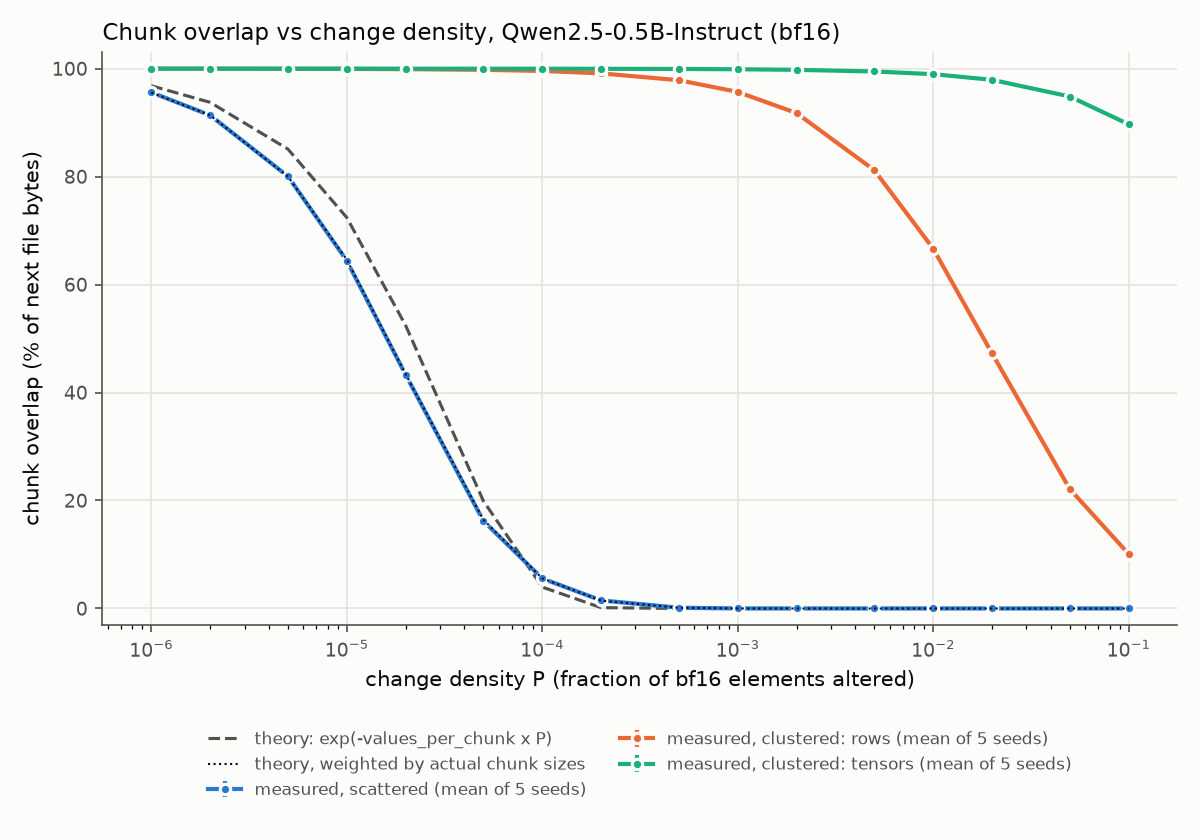
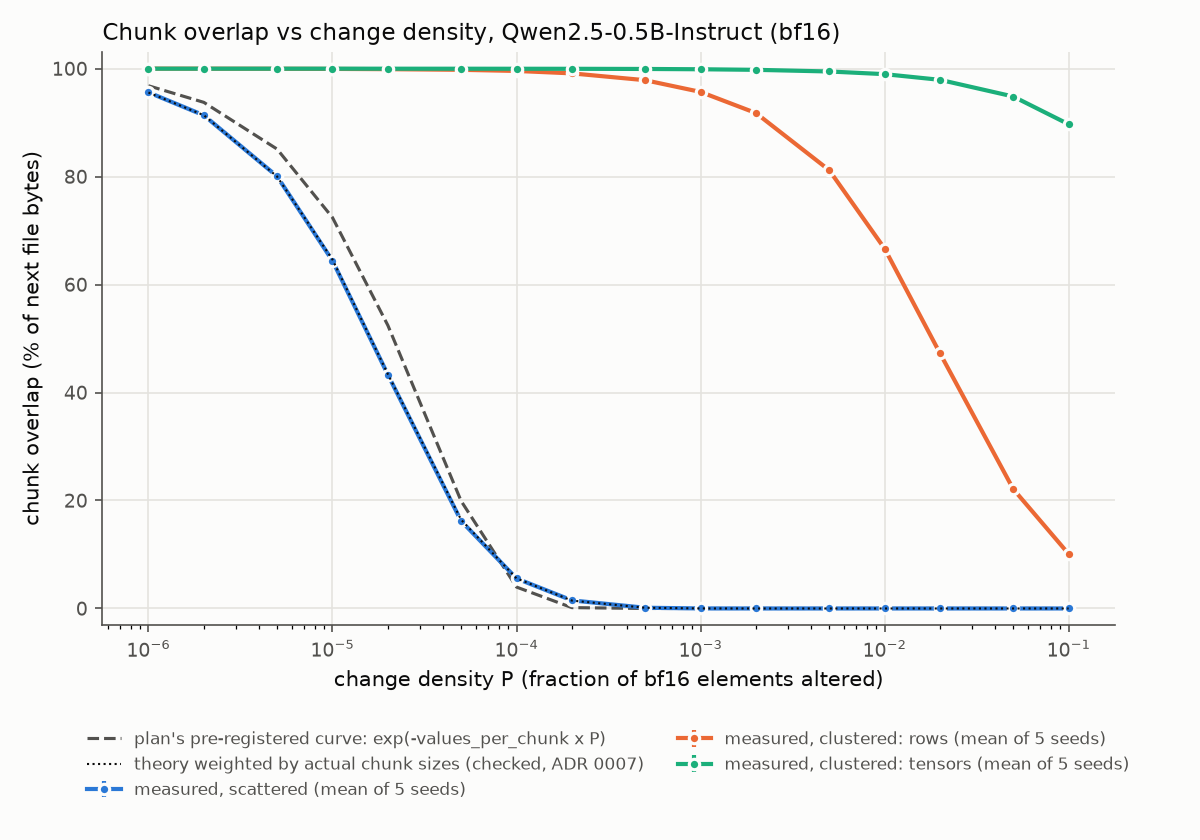
Check the sweep against the chunk-size-weighted theory curve

diff --git a/scripts/report.py b/scripts/report.py
@@ -59,7 +59,7 @@ def drawSweepChart(sweep: dict, path: Path):
         color=textSecondary,
         linewidth=1.5,
         linestyle="--",
-        label="theory: exp(-values_per_chunk x P)",
+        label="plan's pre-registered curve: exp(-values_per_chunk x P)",
     )
     axes.plot(
         theory["density"],
@@ -68,7 +68,7 @@ def drawSweepChart(sweep: dict, path: Path):
         linewidth=1,
         linestyle=":",
         zorder=4,
-        label="theory, weighted by actual chunk sizes",
+        label="theory weighted by actual chunk sizes (checked, ADR 0007)",
     )
     for mode, color in modeColors.items():
         modeCells = cells.filter(pl.col("mode") == mode).sort("density")
@@ -320,19 +320,17 @@ def sweepBlock(sweep: dict) -> str:
         return percent(cell["mean_chunk_overlap_fraction"])
 
     scattered = [cell for cell in cells if cell["mode"] == "scattered"]
-    outside = [
-        cell
-        for cell in scattered
-        if abs(cell["mean_chunk_overlap_fraction"] - cell["theory_chunk_overlap_fraction"])
-        > max(0.03, 3 * cell["standard_error"])
-    ]
-    sizeAwareWorst = max(
-        abs(cell["mean_chunk_overlap_fraction"] - cell["size_aware_theory_chunk_overlap_fraction"])
-        for cell in scattered
-    )
-    plainWorst = max(
-        abs(cell["mean_chunk_overlap_fraction"] - cell["theory_chunk_overlap_fraction"]) for cell in scattered
-    )
+
+    def outsideTolerance(curveKey: str) -> int:
+        return sum(
+            1
+            for cell in scattered
+            if abs(cell["mean_chunk_overlap_fraction"] - cell[curveKey]) > max(0.03, 3 * cell["standard_error"])
+        )
+
+    def worstGap(curveKey: str) -> float:
+        return max(abs(cell["mean_chunk_overlap_fraction"] - cell[curveKey]) for cell in scattered)
+
     seeds = len(report["plan"]["seeds"])
     return "\n".join(
         [
@@ -344,9 +342,12 @@ def sweepBlock(sweep: dict) -> str:
             f"| first density with overlap under 1% | {firstDensityBelow('scattered', 0.01)} | {firstDensityBelow('rows', 0.01)} | {firstDensityBelow('tensors', 0.01)} |",
             "",
             f"Mean chunk {report['base_mean_chunk_bytes']:,.0f} bytes, so {report['values_per_chunk']:,.0f} bf16 elements per chunk; "
-            f"{seeds} seeds per cell. The pre-registered curve `exp(-values_per_chunk x P)` misses the scattered points by up to "
-            f"{100 * plainWorst:.1f} percentage points, and {len(outside)} of {len(scattered)} scattered cells fall outside its fixed "
-            f"tolerance. The same chance weighted by the actual chunk sizes misses by at most {100 * sizeAwareWorst:.2f} points (see Surprises).",
+            f"{seeds} seeds per cell. Against the checked curve, the chance a chunk has no change weighted by the actual chunk "
+            f"sizes (ADR 0007), the scattered points miss by at most {100 * worstGap('size_aware_theory_chunk_overlap_fraction'):.2f} "
+            f"percentage points, and {outsideTolerance('size_aware_theory_chunk_overlap_fraction')} of {len(scattered)} cells fall "
+            f"outside the fixed tolerance. The plan's pre-registered curve `exp(-values_per_chunk x P)` misses by up to "
+            f"{100 * worstGap('theory_chunk_overlap_fraction'):.1f} points, with "
+            f"{outsideTolerance('theory_chunk_overlap_fraction')} of {len(scattered)} cells outside (see Surprises).",
         ]
     )
 

diff --git a/scripts/e2e_checks.py b/scripts/e2e_checks.py
@@ -40,10 +40,11 @@ def selfOverlap(path: str):
 
 
 def sweep(path: str):
-    """Scattered cells within max(3 pp, 3 standard errors) of exp(-values_per_chunk * P); clustered above scattered.
+    """Scattered cells within max(3 pp, 3 standard errors) of the chunk-size-weighted curve; clustered above scattered.
 
-    The tolerance and the curve are fixed in docs/plan.md and are never tuned. The size-aware curve is reported
-    alongside for diagnosis only.
+    The tolerance is fixed in docs/plan.md and is never tuned. ADR 0007 replaced the plan's curve,
+    exp(-values_per_chunk * P), with the same survival chance weighted by the base's actual chunk sizes. The gap to the
+    plan's curve is still printed, for comparison only.
     """
     report = load(path)["result"]
     cells = {(cell["mode"], cell["density"]): cell for cell in report["cells"]}
@@ -54,14 +55,14 @@ def sweep(path: str):
         mean = cell["mean_chunk_overlap_fraction"]
         plainGap = mean - cell["theory_chunk_overlap_fraction"]
         sizeAwareGap = mean - cell["size_aware_theory_chunk_overlap_fraction"]
-        verdict = "ok" if abs(plainGap) <= tolerance else "OUTSIDE"
+        verdict = "ok" if abs(sizeAwareGap) <= tolerance else "OUTSIDE"
         print(
-            f"  scattered {density:7.0e} mean {mean:.4f} theory gap {plainGap:+.4f} "
-            f"size-aware gap {sizeAwareGap:+.4f} tolerance {tolerance:.4f} {verdict}"
+            f"  scattered {density:7.0e} mean {mean:.4f} size-weighted gap {sizeAwareGap:+.4f} "
+            f"tolerance {tolerance:.4f} {verdict} (plan's curve gap {plainGap:+.4f})"
         )
-        if abs(plainGap) > tolerance:
+        if abs(sizeAwareGap) > tolerance:
             fail(
-                f"{path}: scattered density {density:g} is {plainGap:+.4f} from exp(-values_per_chunk * P), "
+                f"{path}: scattered density {density:g} is {sizeAwareGap:+.4f} from the chunk-size-weighted curve, "
                 f"tolerance {tolerance:.4f}"
             )
         for clusteredMode in ("rows", "tensors"):

diff --git a/README.md b/README.md
@@ -123,7 +123,7 @@ Synthetic perturbations of `Qwen/Qwen2.5-0.5B-Instruct`: a fraction P of bf16 el
 | first density with overlap under 50% | 2e-05 | 0.02 | not reached by 0.1 |
 | first density with overlap under 1% | 0.0005 | not reached by 0.1 | not reached by 0.1 |
 
-Mean chunk 64,560 bytes, so 32,280 bf16 elements per chunk; 5 seeds per cell. The pre-registered curve `exp(-values_per_chunk x P)` misses the scattered points by up to 9.1 percentage points, and 4 of 16 scattered cells fall outside its fixed tolerance. The same chance weighted by the actual chunk sizes misses by at most 0.24 points (see Surprises).
+Mean chunk 64,560 bytes, so 32,280 bf16 elements per chunk; 5 seeds per cell. Against the checked curve, the chance a chunk has no change weighted by the actual chunk sizes (ADR 0007), the scattered points miss by at most 0.24 percentage points, and 0 of 16 cells fall outside the fixed tolerance. The plan's pre-registered curve `exp(-values_per_chunk x P)` misses by up to 9.1 points, with 4 of 16 cells outside (see Surprises).
 <!-- END sweep -->
 
 ### Which tensors keep their chunks (chart 2)
@@ -145,7 +145,7 @@ The Hub columns come from the CAS reconstruction API (`scripts/hub_reconstructio
 
 ## Surprises
 
-1. **The pre-registered theory curve misses the scattered sweep.** The plan fixed `exp(-values_per_chunk x P)`, with `values_per_chunk` the mean chunk size over 2 bytes, and a tolerance of 3 percentage points or 3 standard errors. At mid-range densities the scattered points fall outside it (see the sweep table). The cause is chunk-size variation: Xet chunks range from 8 KiB to 128 KiB, a chunk of `s` bytes survives with probability `(1-P)^(s/2)`, and the byte-weighted average of that is not its value at the mean size. Large chunks are both likelier to be hit and carry more bytes. The size-weighted curve matches every cell. The check is left failing as pre-registered, and `just e2e` reports it. Whether to replace the curve is the owner's call. The conclusion is the same under either curve, because both reach zero long before the per-step change rates measured here.
+1. **The pre-registered theory curve was wrong, and was replaced after measuring.** The plan fixed `exp(-values_per_chunk x P)`, with `values_per_chunk` the mean chunk size over 2 bytes, and a tolerance of 3 percentage points or 3 standard errors. At mid-range densities the scattered points fell outside it (see the sweep table). The cause is chunk-size variation: Xet chunks range from 8 KiB to 128 KiB, a chunk of `s` bytes survives with probability `(1-P)^(s/2)`, and the byte-weighted average of that is not its value at the mean size. Large chunks are both likelier to be hit and carry more bytes. The check now uses that byte-weighted average over the base's actual chunk sizes, with the same tolerance ([ADR 0007](docs/adr/0007-check-the-sweep-against-the-chunk-size-weighted-curve.md)). This curve was chosen after seeing the data. It has no free parameters, and a separate chunk-count prediction from the same model also matches. No verdict depends on either curve.
 2. **The crates.io `hf-xet` 1.6.0 release over-reports dedup.** In that release, a dedup match that defrag prevention refuses is counted in `deduped_bytes` and then again as new data. So `deduped_bytes` overstates the dedup taken, and the reported file size exceeds the real one by exactly `defrag_prevented_dedup_bytes`. xet-core fixed this in #931, and every number here comes from xet-core at `d2f667c`, which includes the fix ([ADR 0006](docs/adr/0006-build-on-xet-core-at-d2f667c.md)). The fix changes only the accounting, not which chunks are sent: rerunning every pair on both versions gave byte-identical transferred bytes. `just e2e` asserts on every pair that the raw metrics now agree with what was sent ([ADR 0005](docs/adr/0005-measure-accepted-dedup-as-file-bytes-minus-new-bytes.md)).
 3. **A header that changes length costs more than one chunk.** When no content-defined boundary appears within 128 KiB, the chunker cuts at exactly 128 KiB. A byte shift propagates through runs of such forced cuts, and bf16 checkpoints have many of them (`next_max_size_chunks` in `results/overlap-*.json`). Our pairs keep the same header length, so this does not affect them.
 

diff --git a/docs/run-log.md b/docs/run-log.md
@@ -8,14 +8,14 @@ Session link: not generated. Uploading a session export writes to the network, w
 
 **Surprising results, flagged:**
 
-1. **A pre-registered check fails, and it is left failing.** The scattered sweep falls outside the fixed `exp(-values_per_chunk x P)` tolerance in 4 of 16 cells (step 2 entry). The cause is chunk-size variation, and a size-weighted curve matches within a quarter of a point. `just e2e` is therefore red on that one check, and every other invariant and oracle is green.
-2. **`hf-xet` 1.6.0 over-reports dedup and file size** when defrag prevention refuses a match (step 4 entry, ADR 0005). The fix is in xet-core after 1.6.0.
+1. **A pre-registered check failed, and the owner approved replacing its curve.** The scattered sweep fell outside the fixed `exp(-values_per_chunk x P)` tolerance in 4 of 16 cells (step 2 entry). The cause is chunk-size variation. With the owner's approval, the check now uses the chunk-size-weighted curve with the same tolerance (ADR 0007), and `just e2e` is green. That curve was chosen after seeing the data, which the README states.
+2. **The crates.io `hf-xet` 1.6.0 release over-reports dedup and file size** when defrag prevention refuses a match (step 4 entry, ADR 0005). At the owner's request, the tool now builds on xet-core `d2f667c`, which has the fix (ADR 0006). Every pair was measured again, and bytes sent were byte-identical.
 3. **The ajjyy pair's Hub row (0 shared chunks) is not comparable** to a local xet-core upload, because the Hub chunked that file differently (step 5 entry).
 
 **Needs the owner's judgement:**
 
-- Whether to replace the plan's theory curve with the size-weighted one, which would turn `just e2e` green with the same tolerance. The plan fixed the curve in advance, so I did not change it.
-- Whether ADR 0005's accepted-dedup definition of the defrag gap is acceptable in place of the plan's `chunk overlap - deduped_bytes`.
+- Resolved: the theory curve (ADR 0007) and the engine version (ADR 0006), both decided by the owner. On the fixed engine, ADR 0005's accepted dedup and the plan's `chunk overlap - deduped_bytes` agree, and `just e2e` checks that.
+- When xet-core publishes a release with the accounting fix, switch back from the git dependency (ADR 0006).
 - Whether and where to send the docs-drift patches in `docs/docs-drift/` (step 7). They are prepared and not opened.
 - Nothing has been pushed, uploaded or posted. The only network use was public Hub reads.
 
@@ -259,3 +259,11 @@ Decision: report both the local measurement (what xet-core 1.6.0 would transfer)
 - README surprise 2 made the same claim before the rerun: fixed, it now cites the rerun.
 - `FileCleaner` now fails hard on a size mismatch: noted in ADR 0006.
 - Lines over 120 columns and a duplicate lookup in `e2e_checks.py`: fixed.
+
+## 2026-10-04 Replace the sweep's theory curve (owner approval)
+
+**Asked.** The owner approved replacing `exp(-values_per_chunk x P)` in the scattered-sweep check with the chunk-size-weighted curve, keeping the tolerance.
+
+**Ran.** ADR 0007 records the swap and that the curve was adopted after the data. The plan's tolerance line points at it. `e2e_checks.py` now gates on `size_aware_theory_chunk_overlap_fraction` and prints the plan's curve gap for comparison. `report.py` labels both curves in chart 1, and the sweep text reports the cells outside tolerance for both. README surprise 1 now describes the replacement. The Rust tool is unchanged, so `results/sweep.json` is unchanged too: it already carried both curves.
+
+**Saw.** Against the new curve, all 16 scattered cells are inside the fixed tolerance, with a worst gap of a quarter of a percentage point. Against the plan's curve, 4 cells remain outside, as before. No verdict, table or chart value moves, because verdicts never use the curve.

diff --git a/docs/adr/0007-check-the-sweep-against-the-chunk-size-weighted-curve.md b/docs/adr/0007-check-the-sweep-against-the-chunk-size-weighted-curve.md
@@ -1,0 +1,29 @@
+# Check the sweep against the chunk-size-weighted curve
+
+The plan fixed the scattered-sweep check before measuring: the mean of 5 seeds must be within max(3 percentage points, 3 standard errors) of `exp(-values_per_chunk x P)`, where `values_per_chunk` is the mean chunk size over 2 bytes. The measured points fell outside it in 4 of 16 cells, by up to 9.1 points (run log, step 2). The cause is in the model, not the tool. Overlap is measured in bytes, and Xet chunks vary from 8 KiB to 128 KiB (coefficient of variation 0.64, 16% at the cap). A chunk of `s` bytes survives scattered changes with probability `(1-P)^(s/2)`, and the byte-weighted average of that is not its value at the mean size. Large chunks are both likelier to be hit and carry more bytes.
+
+The check now uses the same survival probability weighted by the actual chunk sizes of the base checkpoint:
+
+```
+expected overlap(P) = sum over base chunks of s * (1-P)^(s/2), divided by the sum of s
+```
+
+The tolerance is unchanged. The owner approved the swap on 2026-10-04.
+
+This curve was adopted **after** seeing the data, so it is not pre-registered. Three things limit how much that matters:
+
+- It has no free parameters. It reads only the base file's chunk sizes and never the measured overlap.
+- It is the plan's model without the "every chunk has the mean size" shortcut. At a single chunk size the two curves coincide (unit test `size_aware_theory_equals_plain_theory_for_equal_chunks`).
+- It makes a second prediction that was checked separately: the share of reused chunks (a count, not bytes) matches `mean((1-P)^(s/2))` within 0.3 points, and the chunk count stays within 0.07% of the base's up to density 1e-3.
+
+## Considered Options
+
+- **Keep the plan's curve and leave the check failing**: honest, but it leaves the outer loop permanently red for a known, explained reason, which hides new failures.
+- **Widen the tolerance**: tuning a check to pass. Ruled out by AGENTS.md.
+- **Swap in the chunk-size-weighted curve, with the same tolerance** (chosen).
+
+## Consequences
+
+- `just e2e` checks scattered cells against `size_aware_theory_chunk_overlap_fraction` and prints the gap to the plan's curve alongside it. The plan's curve stays in `results/sweep.json` and in chart 1, labelled as the pre-registered one.
+- No verdict changes. Verdicts compare transferred bytes with the sparse delta (ADR 0001) and never use the curve. The curve only checks that the tool behaves like the model on synthetic data.
+- The README reports the swap as a surprise, and says plainly that the curve in the gate was chosen after measuring.

diff --git a/docs/plan.md b/docs/plan.md
@@ -102,7 +102,7 @@ Never cut steps 1, 2 or 6.
 - `overlap(A, A)` is 100%, and `upload` of A twice gives `new_bytes` of about 0 (shard overhead only).
 - Transferred data bytes are at least `next file size - chunk overlap bytes`. The defrag gap is never negative.
 - Attributed bytes reconcile with the file size for every pair.
-- For the scattered sweep, the mean of 5 seeds is within 3 percentage points of `exp(-values_per_chunk * P)`, or within 3 standard errors, whichever is wider. `values_per_chunk` is the measured mean chunk size divided by 2 bytes. This tolerance is fixed now, so never tune it.
+- For the scattered sweep, the mean of 5 seeds is within 3 percentage points of `exp(-values_per_chunk * P)`, or within 3 standard errors, whichever is wider. `values_per_chunk` is the measured mean chunk size divided by 2 bytes. This tolerance is fixed now, so never tune it. Amended by ADR 0007: the tolerance is unchanged, but the curve is now the same survival chance weighted by the base's actual chunk sizes, because chunk sizes vary and overlap is measured in bytes.
 - At the same density, clustered modes give more chunk overlap than scattered.
 - Oracles 2 and 3 match.
 
